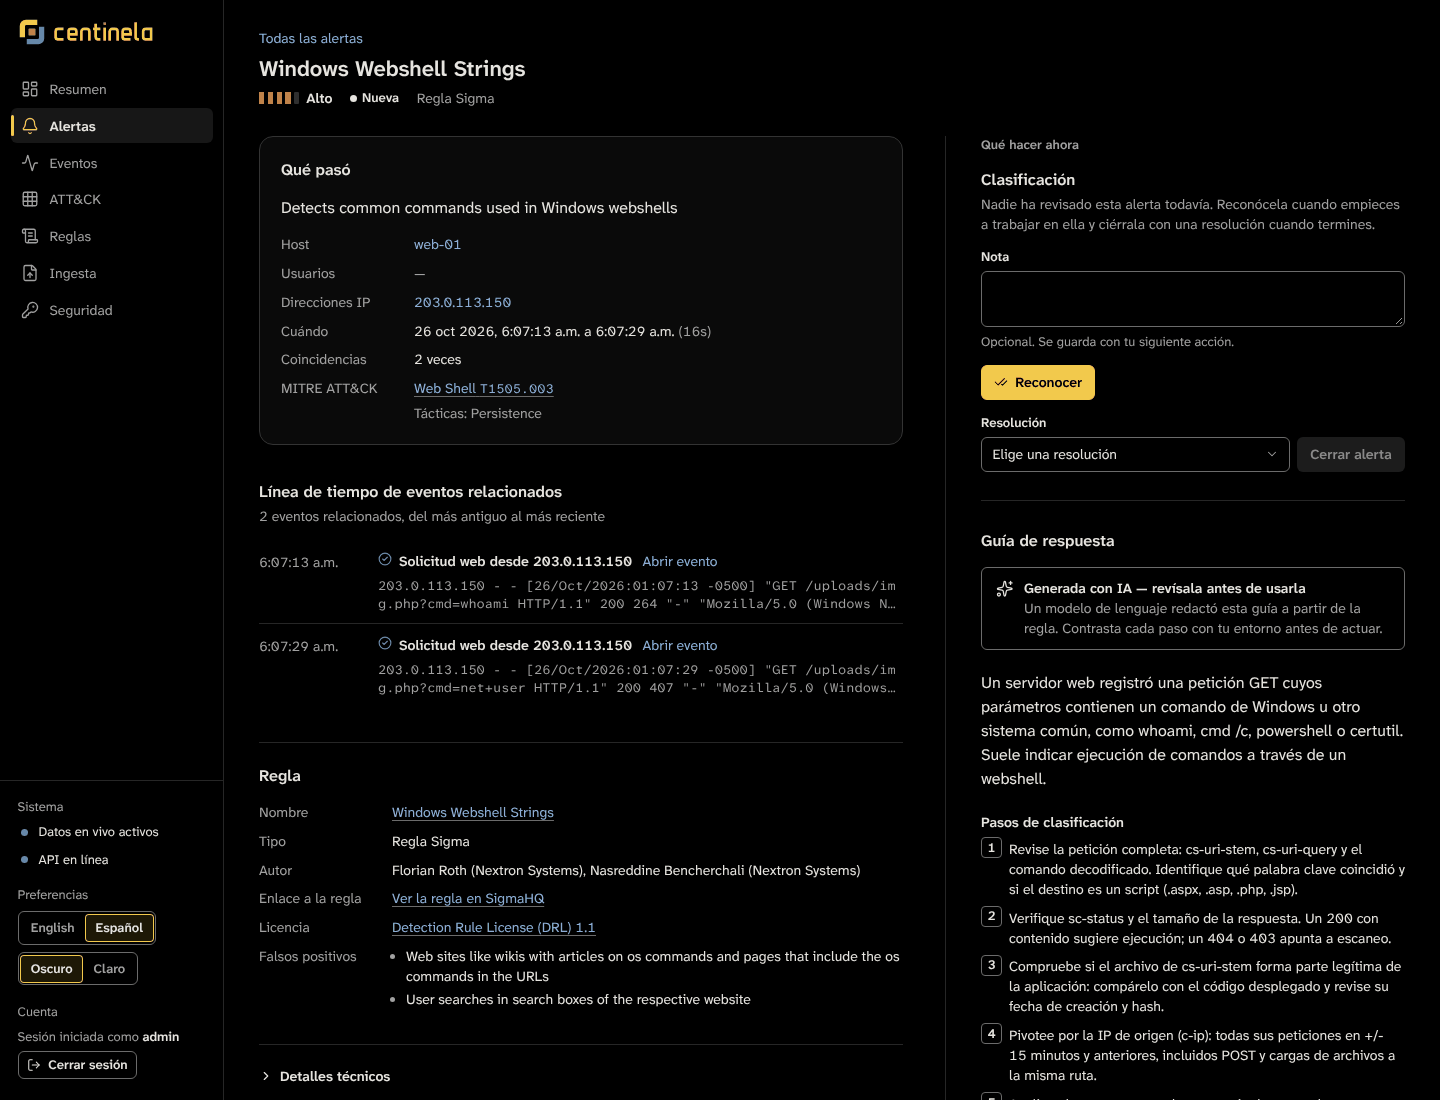
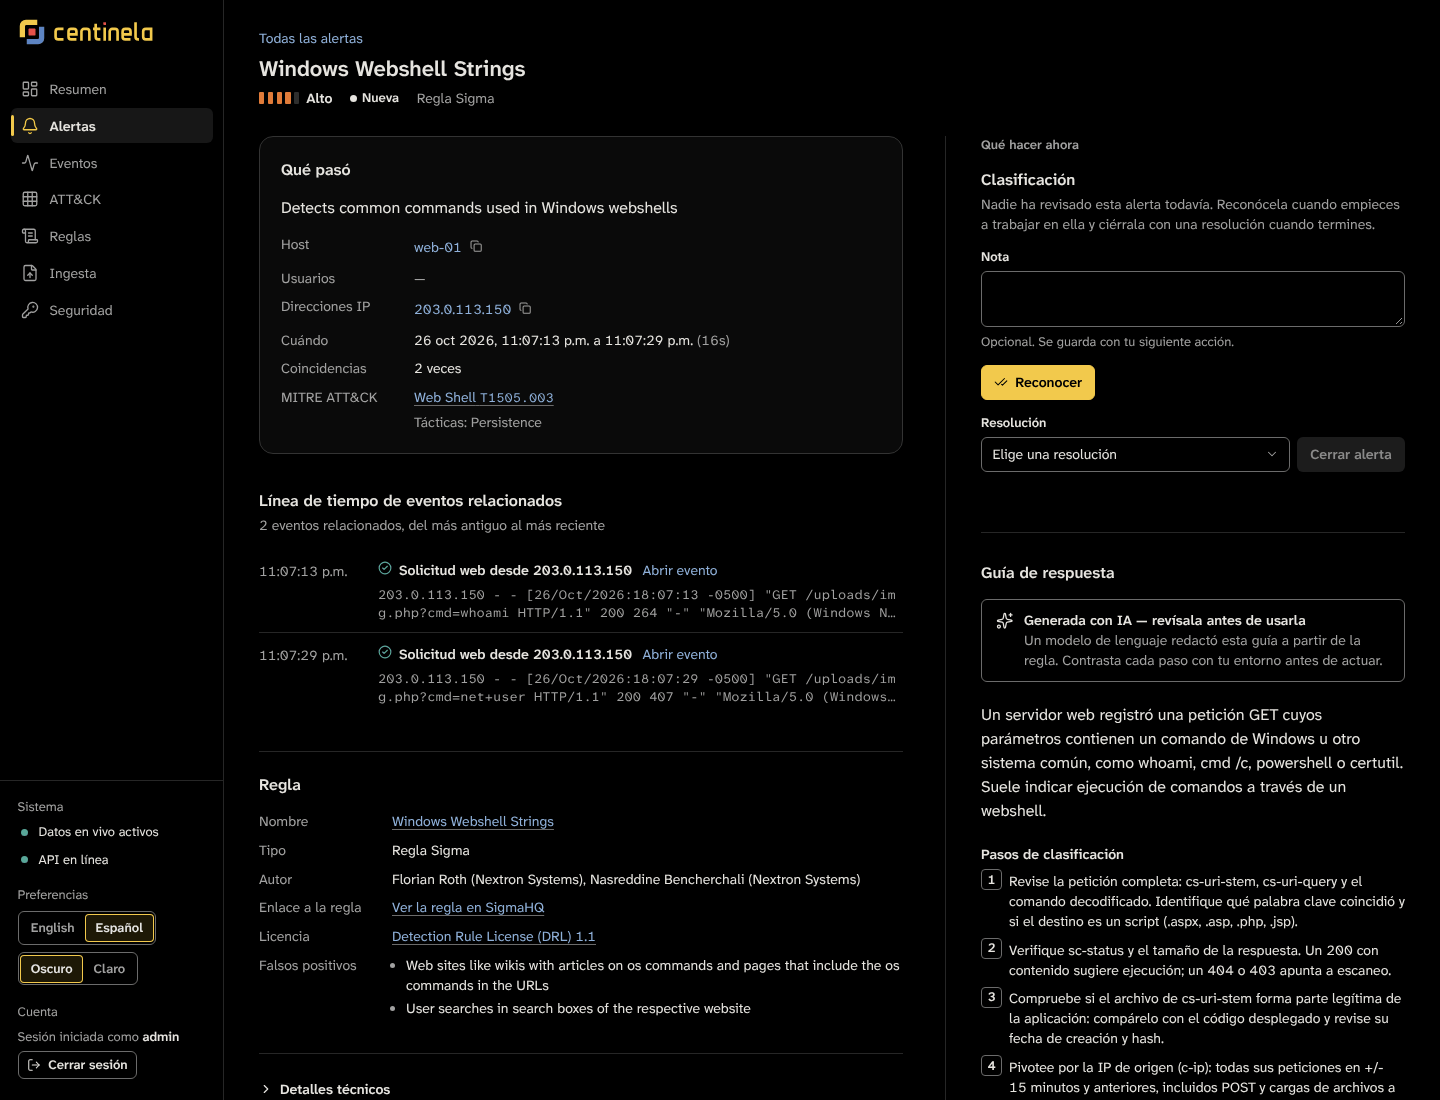
docs(screenshots): retake the alert pages and record the demo GIF
The alert pages predated the copy buttons; the other screenshots still
match the UI. demo.gif (41 s, 4.2 MB) is recorded from the Docker stack
with the demo data: Overview, the critical alert with its timeline and
Spanish playbook, the ATT&CK matrix, and a live alert arriving.

diff --git a/docs/screenshots/README.md b/docs/screenshots/README.md
@@ -1,9 +1,10 @@
 # Screenshots
 
-Taken by session S7b from `npm run demo` data (seed 42), in the production build (`vite preview`, strict Content Security Policy), English unless the name says otherwise. PNGs are reduced to 256 colours.
+Taken by session S7b from `npm run demo` data (seed 42), in the production build (`vite preview`, strict Content Security Policy), English unless the name says otherwise. PNGs are reduced to 256 colours. Session S8 retook the two alert pages (they now show the copy buttons added after S7b's set) and recorded the demo GIF, both from the Docker stack on `http://localhost:8080` (nginx serving the production build) with the same data.
 
 | File | What it shows |
 | --- | --- |
+| `demo.gif` | 41 s at 1280 px, 10 frames per second, recorded from the real app (S8): the Overview, the critical alert "Successful SSH login after a brute force" with its folded timeline and its playbook in Spanish, the ATT&CK matrix for the last 7 days, and a live brute force followed by a successful login sent to `POST /api/ingest`, arriving as two alerts with their notifications |
 | `overview.png` | Overview at 1440 px, dark theme: the "Needs your attention" scoreboard and the alerts to start with |
 | `alerts.png` | Alerts list, last 7 days, 1440 px |
 | `events.png` | Events list, last 24 hours, 1440 px |
